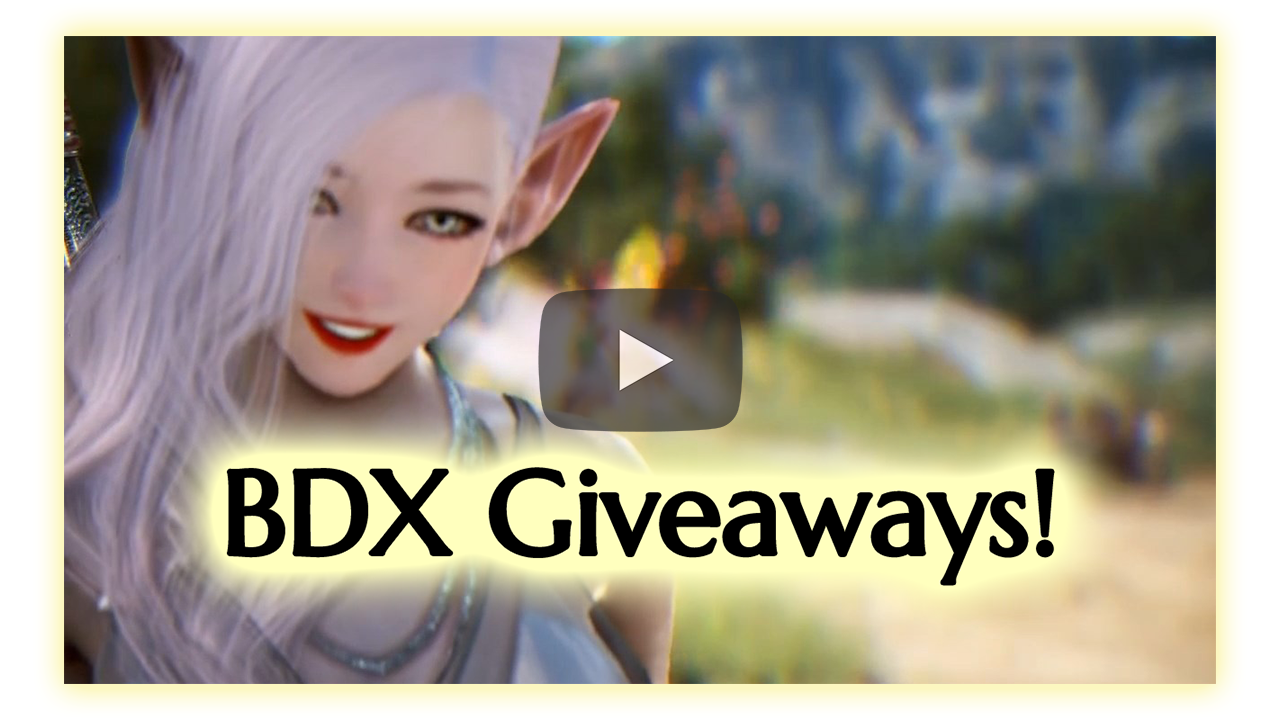
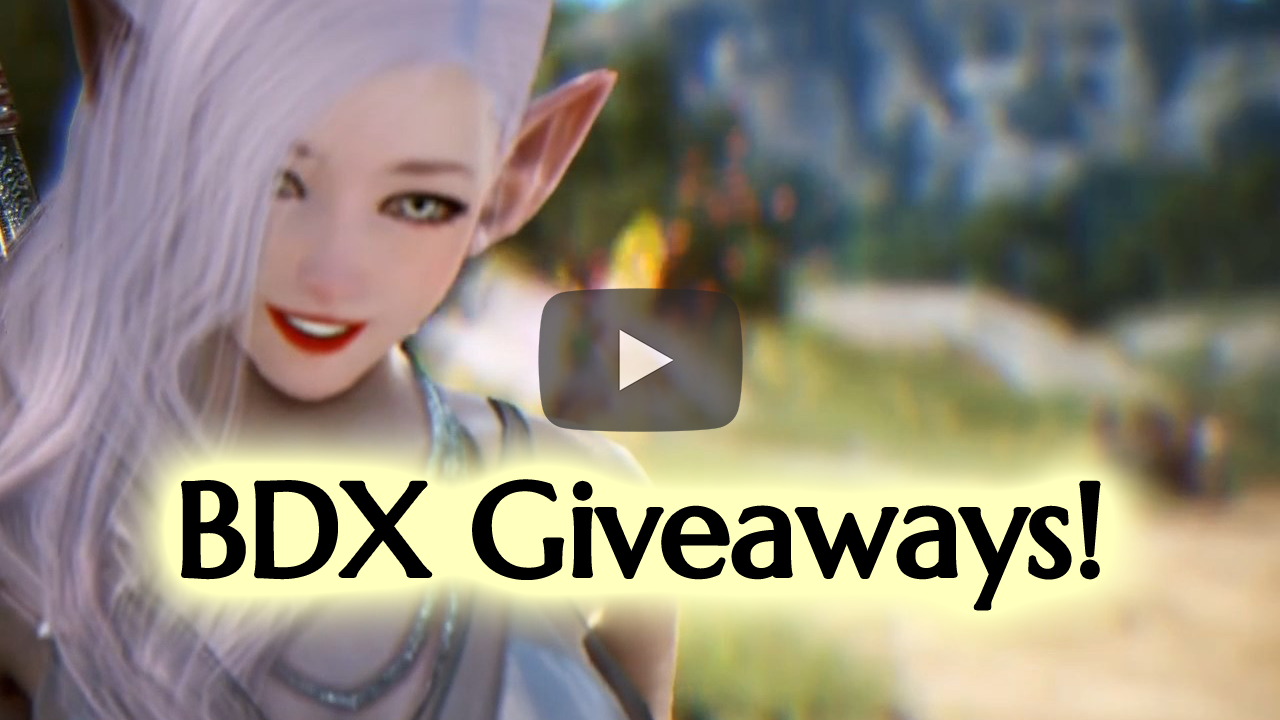
Fixed Glow

diff --git a/index.html b/index.html
@@ -95,27 +95,21 @@
     <div class="contentspace"></div>
     
     <style type="text/css">
-    .card {
-        position: relative;
-        display: inline-block;
-        margin: 50px;
+    .video {
+        -moz-box-shadow: 0 0 25px #fcf7c0;
+        -webkit-box-shadow: 0 0 25px #fcf7c0;
+        box-shadow: 0px 0px 25px #fcf7c0;
     }
-    .card .img-top {
-        display: none;
-        position: absolute;
-        top: 0;
-        left: 0;
-        z-index: 99;
+    .video:hover {
+        -moz-box-shadow: 0 0 50px #fcf7c0;
+        -webkit-box-shadow: 0 0 50px #fcf7c0;
+        box-shadow: 0px 0px 50px #fcf7c0;
     }
-    .card:hover .img-top {
-        display: inline;
-    }
-    </style>    
-        
-    <div class="card">
+    </style>
+    
+    <div class="video">
         <a class="play-1" href="https://www.youtube.com/watch?v=AIjA3OQxsxA">
             <center><img src="image/indexvid.png" height="100%" width="100%" align="center"></center>
-            <center><img src="image/indexvid.png" height="100%" width="100%" align="center" class="img-top"></center>
         </a>
     </div>
         
